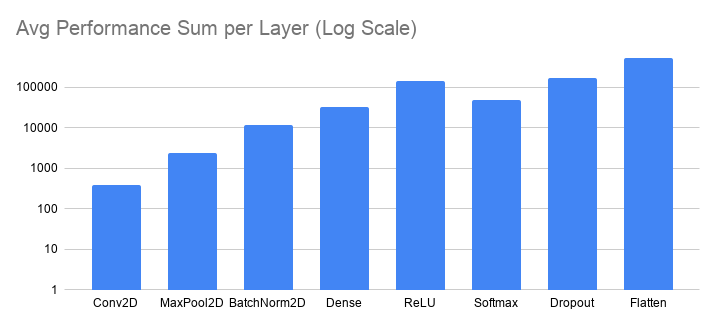
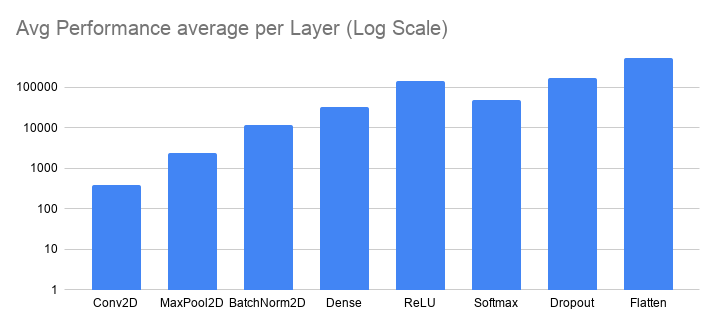
day 4.5

Changed region(s): [[0.2458, 0.0613, 0.6453, 0.1227]]

diff --git a/modules/conv2d.py b/modules/conv2d.py
@@ -17,6 +17,8 @@ class Conv2D(Layer):
             self.mode = 'direct' 
         if conv_algo == 1:
             self.mode = 'im2col_gemm'
+        if conv_algo == 2:
+            self.mode = 'im2col_GEMM_vectorization'
         else:
             print(f"Algoritmo {conv_algo} no soportado aún")
             self.mode = 'direct' 
@@ -64,6 +66,8 @@ class Conv2D(Layer):
             return self._forward_direct(input)
         if self.mode == 'im2col_gemm':
             return self._forward_im2col_GEMM(input)
+        if self.mode == 'im2col_GEMM_vectorization':
+            return self._forward_im2col_GEMM_vectorization(input)
         else:
             raise ValueError("Mode must be 'direct' or 'jeje'")
 
@@ -192,55 +196,160 @@ class Conv2D(Layer):
 
 
 
-
-
-
-
-    # --- im2col IMPLEMENTATION ---
-
+    ### im2col + GEMM #########################################
     def im2col(self, input):
+        ''' Parámetros topológicos iniciales ''' 
         batch_size, _, H, W = input.shape
         k_h, k_w = self.kernel_size, self.kernel_size
         stride = self.stride
         padding = self.padding
 
-        # el padding se hace sobre input
+        # Evita la reducción dimensional abrupta y procesa bordes
+        # Resultado: [B, C, H + 2*padding, W + 2*padding]
         if padding > 0:
             input = np.pad(input, ((0, 0), (0, 0), (padding, padding), (padding, padding)),
-                           mode='constant').astype(np.float32)
+                            mode='constant').astype(np.float32)
             
+        # Cálculo de la dimensión espacial de salida, fórmula estándar de convolución:
+        # O = floor((H - K + 2P) / S) + 1
         H_out = (H + 2 * padding - k_h) // stride + 1
         W_out = (W + 2 * padding - k_w) // stride + 1
         
         cols = []
 
+        # Extracción iterativa de parches. Alta latencia debido al intérprete de Python. (¿cython?)
         for b in range(batch_size):
             for i in range(H_out):
                 for j in range(W_out):
+                    ### Bloque generado por IA #####################
+                    # Extracción del campo local: tensor de dimensión [C, K_h, K_w]
                     patch = input[b, :, i*stride : i*stride + k_h, j*stride : j*stride + k_w]
+                    ### Fin bloque generado por IA #####################
+                    # Aplanamiento a un vector 1D de dimensión [C * K_h * K_w]
                     patch = patch.reshape(-1)
                     cols.append(patch)
         
+        # Transposición final para alinear columnas
+        # Matriz resultante cols de dimensión: [(C * K_h * K_w), (B * H_out * W_out)]
         return np.array(cols).T
 
 
     def _forward_im2col_GEMM(self, input):
+        ''' Parámetros topológicos iniciales ''' 
         batch_size, _, in_h, in_w = input.shape
         k_h, k_w = self.kernel_size, self.kernel_size
         stride = self.stride
         padding = self.padding
 
+        # Construcción de la matriz de entrada cols
         cols = self.im2col(input)
+        
+        # Aplanamiento del filtro
+        # De [Out_C, In_C, K_h, K_w] a matriz W de dimensión [Out_C, (In_C * K_h * K_w)]
         kernel = self.kernels.reshape(self.out_channels, -1)
         
+        # GEMM: Y = W * cols
+        # Multiplicación: [Out_C, In_C*K*K] @ [(In_C*K*K), B*H_out*W_out] -> [Out_C, B*H_out*W_out]
         out_cols = kernel @ cols
+        
+        # Broadcasting del vector de bias [Out_C, 1] sobre las columnas del output
         out_cols += self.biases.reshape(-1, 1)
 
+        # Reconstrucción de la topología espacial
         out_h = (in_h + 2 * padding - k_h) // stride + 1
         out_w = (in_w + 2 * padding - k_w) // stride + 1
 
+        # Desplegado de la matriz plana al tensor 4D intermedio: [Out_C, B, H_out, W_out]
         output = out_cols.reshape(self.out_channels, batch_size, out_h, out_w)
+        
+        # Permutación de ejes para retornar a la convención estándar dimensional NCHW
         output = output.transpose(1, 0, 2, 3)
 
         return output
-    
+    ############################################
+
+
+
+    ### im2col + GEMM + vectorization ######################################### 
+    def im2col_vectorization(self, input):
+        ''' Parámetros topológicos iniciales ''' 
+        batch_size, c, in_h, in_w = input.shape
+        k_h, k_w = self.kernel_size, self.kernel_size
+        stride = self.stride
+        padding = self.padding
+
+        # Evita la reducción dimensional abrupta y procesa bordes
+        # Resultado: [B, C, H + 2*padding, W + 2*padding]
+        if padding > 0:
+            input = np.pad(input, ((0, 0), (0, 0), (padding, padding), (padding, padding)),
+                            mode='constant').astype(np.float32)
+
+        # Cálculo de la dimensión espacial de salida, fórmula estándar de convolución:
+        # O = floor((H - K + 2P) / S) + 1
+        out_h = (in_h + 2 * padding - k_h) // stride + 1
+        out_w = (in_w + 2 * padding - k_w) // stride + 1
+
+
+        ### Bloque generado por IA #####################
+        # Topología del tensor virtual 6D. Captura la posición global del parche (Batch, Canales, H, W) 
+        # y la estructura interna del kernel local (K_h, K_w).
+        shape = (batch_size, c, out_h, out_w, k_h, k_w)
+        
+        # Aritmética de punteros, define saltos de memoria sin instanciar datos nuevos
+        strides = (
+            input.strides[0],          # Salto al siguiente Batch
+            input.strides[1],          # Salto al siguiente Canal
+            input.strides[2] * stride, # Salto espacial vertical entre parches
+            input.strides[3] * stride, # Salto espacial horizontal entre parches
+            input.strides[2],          # Salto local vertical dentro del parche
+            input.strides[3]           # Salto local horizontal dentro del parche
+        )
+        ### Fin de bloque generado por IA ##################
+        
+        # as_strided mapea la vista para ahorrar tiempo y memoria
+        windows = np.lib.stride_tricks.as_strided(input, shape=shape, strides=strides)
+        
+        # Permutación para alinear en memoria los ejes a colapsar: 
+        # Agrupa ejes de características (Canales, K_h, K_w) y ejes de iteración (Batch, out_h, out_w)
+        windows_transposed = windows.transpose(1, 4, 5, 0, 2, 3)
+        
+        # Colapsa las dimensiones
+        # Resultado cols: Matriz [(C * K_h * K_w), (B * H_out * W_out)]
+        cols = windows_transposed.reshape(c * k_h * k_w, -1)
+        
+        return cols
+
+
+    def _forward_im2col_GEMM_vectorization(self, input):
+        ''' Parámetros topológicos iniciales ''' 
+        batch_size, _, in_h, in_w = input.shape
+        k_h, k_w = self.kernel_size, self.kernel_size
+        stride = self.stride
+        padding = self.padding
+
+        # Extraemos la matriz de parches vectorizada
+        cols = self.im2col_vectorization(input)
+        # Aplanamiento de kernels. W: [Out_C, (In_C * K_h * K_w)]
+        kernel = self.kernels.reshape(self.out_channels, -1)
+                
+        # GEMM. Resolución del sistema de convoluciones locales
+        # Y = W * cols
+        out_cols = kernel @ cols
+        
+        # Traslación del Bias. Broadcasting aditivo
+        out_cols += self.biases.reshape(-1, 1)
+
+        # Recálculo de la dimensión espacial de salida para reestructurar el tensor final
+        out_h = (in_h + 2 * padding - k_h) // stride + 1
+        out_w = (in_w + 2 * padding - k_w) // stride + 1
+
+        # Reestructuración a la dimensionalidad 4D final.
+        # De [Out_C, B*H_out*W_out] -> [Out_C, B, H_out, W_out]
+        output = out_cols.reshape(self.out_channels, batch_size, out_h, out_w)
+        
+        # Conversión topológica final NCHW: [B, Out_C, H_out, W_out]
+        output = output.transpose(1, 0, 2, 3)
+
+        return output
+    ############################################
+        

diff --git a/benchmark_script.py b/benchmark_script.py
@@ -2,10 +2,10 @@
 Este script está hecho para facilitar la comparación de datos de forma más estable, realiza N runs y calcula el resultado medio.
 '''
 
-my_cmd = ["python", "main.py", "--model", "OIANet", "--conv_algo", "1"]
+my_cmd = ["python", "main.py", "--model", "OIANet", "--conv_algo", "2"]
 
 '''
-conv        => args             (0, 1)
+conv        => args             (0, 1, 2)
 dense       => "utils.py"       (naive, inline)
 maxpool2d   => "maxpool2d.py"   (naive, vectorizado)
 ..
@@ -25,8 +25,14 @@ def run_benchmark(n_runs, output_csv):
     
     for i in range(n_runs):
         print(f"Executing run {i+1}/{n_runs}...")
-        result = subprocess.run(cmd, capture_output=True, text=True, check=True)
-        
+        try:
+            result = subprocess.run(cmd, capture_output=True, text=True, check=True)
+        except subprocess.CalledProcessError as e:
+            print(f"\n[!] FATAL: main.py crashed during run {i+1}.")
+            print(f"--- TRACEBACK FROM MAIN.PY ---")
+            print(e.stderr)
+            print(f"------------------------------")
+            exit(1)
         parsing = False
         row_idx = 0
         

diff --git a/annotations.md b/annotations.md
@@ -1,11 +1,18 @@
 # MAIN EXCECUTION ENVIRONMENT
-* CPU:  Ryzen 5 3400G
-* RAM:  2x8GB RAM 3200Mhz
-* GPU:  GTX 1660 6GB
-* OS:   ~~Windows 10 pro~~ -> CachyOS
-* DISK: ~~nvme m.2 ssd gen3~~ -> HDD
 
-# DAY zero
+Component | Model 
+:--|:--
+CPU |  Ryzen 5 3400G
+RAM |  2x8GB RAM 3200Mhz
+GPU |  GTX 1660 6GB
+STORAGE |  ~~nvme m.2 ssd gen3~~ \ HDD
+OS  |  ~~Windows 10 pro~~ \ CachyOS
+
+---
+
+# DAILY SUMMARY
+
+## DAY zero
 * FORKED to `tgatcea-cmd` and cloned locally
 * CREATED deepwiki of original repo at https://deepwiki.com/adcastel/miniOIA4DL
 * EXECUTED `$ python main.py` and got a `ZeroDivisionError: float division by zero` error in the  `.\models\basemodel.py` file, line 22, in function definition `forward`: `images_per_second = imgs / layer_time`
@@ -23,7 +30,7 @@
 * FIXED `resnet18_cifar_100.py` to include `training=False` parameter in function definition `forward(self, x, curr_iter=1)` after getting an unexpected keyword argument 'training' error in `$ python main.py --model ResNet18` execution
 * CHANGED time all time measurements in `resnet18_cifar_100.py` to `time.perf_counter()` as prevention for rounding error (recommendation from inline copilot predictor when searching for `forward(self, x, curr_iter=1)` definition)
 
-# DAY one
+## DAY one
 * EXECUTED and LOGGED `$ python main.py --model OIANet > ./logs/oianet_baseline.log` succesfully.
 * ANALYZED 'oianet_baseline.log' and got a clear frontier on comparing layer performance (x62.79):
     * SLOWER LAYERS: Conv2D, Dense, MaxPool2D
@@ -39,32 +46,36 @@
     * SLOWER LAYERS: Dense, MaxPool2D
     * FASTER LAYERS: Conv2D, BatchNorm2D, ReLU, Dropout, Softmax, Flatten
 
-### FIRST TARGET avg. performance sum per layer >= 1000 imgs/sec with OIANet
+### FIRST TARGET: **`avg. performance` average per layer >= 1000 imgs/sec** for OIANet
 
-# LOST-MEDIA
+## LOST-MEDIA
 Due to OS corruption I lost the Days 2 and 3 progress.
-## DAY two
+### DAY two
 Primarely focused in Dense layer and Utils file.
-## DAY three
+### DAY three
 Primarely focused in MaxPool2D layer.
 
-# DAY four
+## DAY four
+Worked on retrieving as much as possible from previous progress.
 * CREATED script `benchmark_script.py` to average execution results.
 * BENCHMARKED `OIANet` as `BASELINE` (all naive) in `./logs/oianet_BASELINE_cachy.csv` with 10 executions.
 * ANALYZED `./logs/oianet_BASELINE_cachy.csv` and got a clear frontier on comparing layers performance (x52.59):
-![image](./logs/images/layers_oianet_baseline.png)
-    * SLOWER LAYERS (avg. perf. sum < 1000 imgs/sec): Conv2D, Dense, MaxPool2D
-    * FASTER LAYERS (avg. perf. sum >= 1000 imgs/sec): BatchNorm2D, ReLU, Softmax, Dropout, Flatten
+
+    ![image](./logs/images/layers_oianet_baseline.png)
+    * SLOWER LAYERS (avg. perf. average < 1000 imgs/sec): Conv2D, Dense, MaxPool2D
+    * FASTER LAYERS (avg. perf. average >= 1000 imgs/sec): BatchNorm2D, ReLU, Softmax, Dropout, Flatten
 * BENCHMARKED `OIANet` as `conv_algo=1` in `./logs/oianet_(conv=1_others=naive)_cachy.csv` with 10 executions.
 * ANALYZED `./logs/oianet_(conv=1_others=naive)_cachy.csv` and got a clear frontier on comparing layers performance (x6.14):
-![image](./logs/images/layers_oianet_(conv=1_others=naive).png)
+
+    ![image](./logs/images/layers_oianet_(conv=1_others=naive).png)
     * SLOWER LAYERS: Dense, MaxPool2D, Conv2D
     * FASTER LAYERS: BatchNorm2D, ReLU, Softmax, Dropout, Flatten
 * STUDIED `matmul_biasses` algorithm in `utils.py` used by `Dense` layer.
 * ADDED `inline` aproach in the `matmul_biasses` algorithm in `utils.py`.
 * BENCHMARKED `OIANet` as `conv_algo=1 dense=inline` in `./logs/oianet_(conv=1_dense=inline_others=naive)_cachy.csv` with 10 executions.
 * ANALYZED `./logs/oianet_(conv=1_dense=inline_others=naive)_cachy.csv` and got a clear frontier on comparing layers performance (x6.14):
-![image](./logs/images/layers_oianet_(conv=1_dense=inline_others=naive).png)
+    
+    ![image](./logs/images/layers_oianet_(conv=1_dense=inline_others=naive).png)
     * SLOWER LAYERS: MaxPool2D, Conv2D
     * FASTER LAYERS: BatchNorm2D, Dense, ReLU, Softmax, Dropout, Flatten
 * STUDIED `forward` algorithm in `MaxPool2D` layer.
@@ -74,7 +85,60 @@ Primarely focused in MaxPool2D layer.
     * Mapping: sliding window approach creates a view from stride manipulation, avoiding main memory duplication and maximizing data locality.
 * BENCHMARKED `OIANet` as `conv_algo=1 dense=inline maxpool2d=vectorizado` in `./logs/oianet_(conv=1_dense=inline_maxpool2d=vectorizado_others=naive)_cachy.csv` with 10 executions.
 * ANALYZED `./logs/oianet_(conv=1_dense=inline_maxpool2d=vectorizado_others=naive)_cachy.csv` and got a clear frontier on comparing layers performance (x2.42):
-![image](./logs/images/layers_oianet_(conv=1_dense=inline_maxpool2d=vectorizado_others=naive).png)
+    
+    ![image](./logs/images/layers_oianet_(conv=1_dense=inline_maxpool2d=vectorizado_others=naive).png)
     * SLOWER LAYERS: Conv2D
     * FASTER LAYERS: BatchNorm2D, Dense, ReLU, Softmax, Dropout, Flatten
 * DEEP STUDY of `Conv2D` layer
+
+---
+# ARCHITECTURAL OVERHAUL SUMMARY
+Performance optimizations applied sequentially across framework layers to eliminate Python bottlenecks and maximize hardware Arithmetic Intensity. 
+
+Performance Trajectory (OIANet):
+* Day 0 (Baseline): 0.11 images/sec. Interpreter bounded.
+* Day 4 (Optimized): 120.85 images/sec. Layers strictly routed to C-compiled BLAS and SIMD micro-kernels. `Conv2D`, `Dense`, and `MaxPool2D` upgraded from naive loops to vectorized execution.
+
+
+## Module-Level Documentation
+
+### 1. Layer: `Conv2D` (conv2d.py)
+
+Handles spatial convolutions. Implements three algorithmic tiers controllable via the `conv_algo` parameter.
+
+* Mode 0: Direct (Naive)
+    * Mechanism: 7-level nested loop iterating over $[Batch, Out\_C, In\_C, Out\_H, Out\_W, K_H, K_W]$.
+    * Status: Deprecated. Arithmetic intensity destroyed by scalar operations and dynamic type-checking in Python.
+* Mode 1: IM2COL + GEMM (Python Loops)
+    * Mechanism: Flattens spatial patches into a matrix using 3-level loops and `cols.append()`. Computes via `@` operator.
+    * Status: Suboptimal. Matrix multiplication is fast (BLAS), but memory fragmentation and Python list reallocation during `im2col` data preparation bottleneck execution.
+* Mode 2: IM2COL + GEMM + Vectorized
+    * Mechanism: Zero Python loops. 
+        1.  `np.lib.stride_tricks.as_strided` generates a 6D virtual tensor view $[B, C, OH, OW, K_H, K_W]$ using pointer arithmetic. Zero initial memory duplication.
+        2.  `.transpose().reshape(-1)` flattens the view into standard IM2COL matrices.
+        3.  `kernel @ cols` delegates computation to BLAS.
+    * Status: Optimal. Maximizes L1/L2 cache utilization.
+
+### 2. Layer: `MaxPool2D` (maxpool2d.py)
+
+Executes spatial downsampling and caches gradient routing indices.
+
+* Naive Approach: 4-level loop $[B, C, OH, OW]$ extracting windows and computing scalar maximums. Interpreter overhead saturates CPU.
+* Vectorized Approach:
+    * Forward Pass: Utilizes `sliding_window_view` to map overlapping patches. A single `np.max(windows, axis=(4, 5))` command shifts execution to SIMD reductions.
+    * Training State: `np.argmax` extracts 1D indices from a flattened view. Coordinates are translated to absolute grid coordinates via tensor broadcasting (`abs_i = max_i + grid_i`). Allows strictly parallelized tracking of active gradients.
+
+### 3. Layer: `Dense` (dense.py, utils.py)
+
+Linear transformation mapping $Y = XW^T + b$.
+
+* Naive Approach: 3-level nested loop $O(M \cdot N \cdot P)$. Highly susceptible to memory latency.
+* Optimized Inline Approach: 
+    * Replaced explicit loops with `np.matmul(A, B, out=C)`. 
+    * Memory Efficiency: The `out=C` parameter forces in-place modification, preventing the allocation of intermediate ghost arrays. Bias is added via vectorized broadcasting.
+
+---
+
+### Implementation Directives
+* All active mathematical transformations utilize `np.float32` for memory alignment and numerical stability across BLAS parameters.
+* Execution strictly adheres to NCHW dimensional format at inputs and outputs, transposing intermediate IM2COL/GEMM geometries only during computation.
